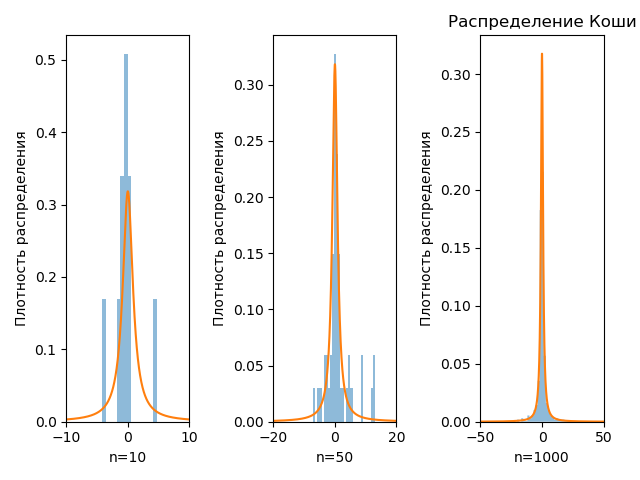
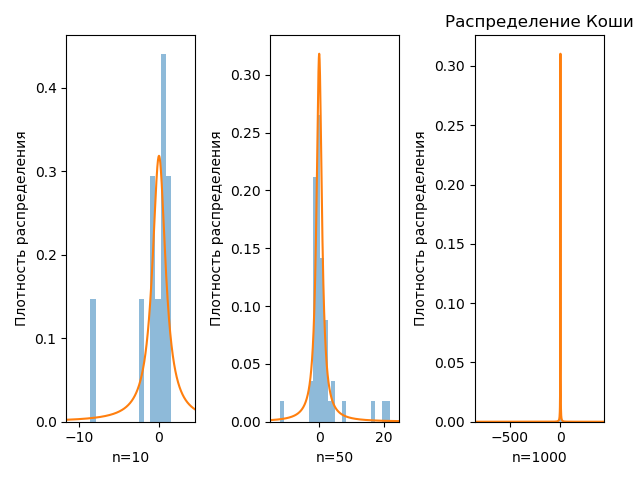
fixed cauchy

diff --git a/lab_1.py b/lab_1.py
@@ -37,18 +37,18 @@ plt.show()
 
 
 c_col=[15, 30, 500]
-c_lim=[10,20,50]
+#c_lim=[10,20,50]
 #   CAUCHY
 plt.figure()
 for i in range(len(buf_size)):
     plt.subplot(1,len(buf_size), i+1)
     x = cauchy.rvs(size=buf_size[i])
     plt.hist(x, c_col[i], density=True, histtype='stepfilled', alpha=0.5)
-    y = linspace(-c_lim[i], c_lim[i], 1000)
+    y = linspace(min(x)-3, max(x)+3, 1000)
     plt.plot(y,cauchy.pdf(y))
     plt.xlabel("n="+ str(buf_size[i]))
     plt.ylabel("Плотность распределения")
-    plt.xlim(-c_lim[i], c_lim[i])
+    plt.xlim(min(x)-3, max(x)+3)
 plt.title("Распределение Коши")
 plt.show()
 
